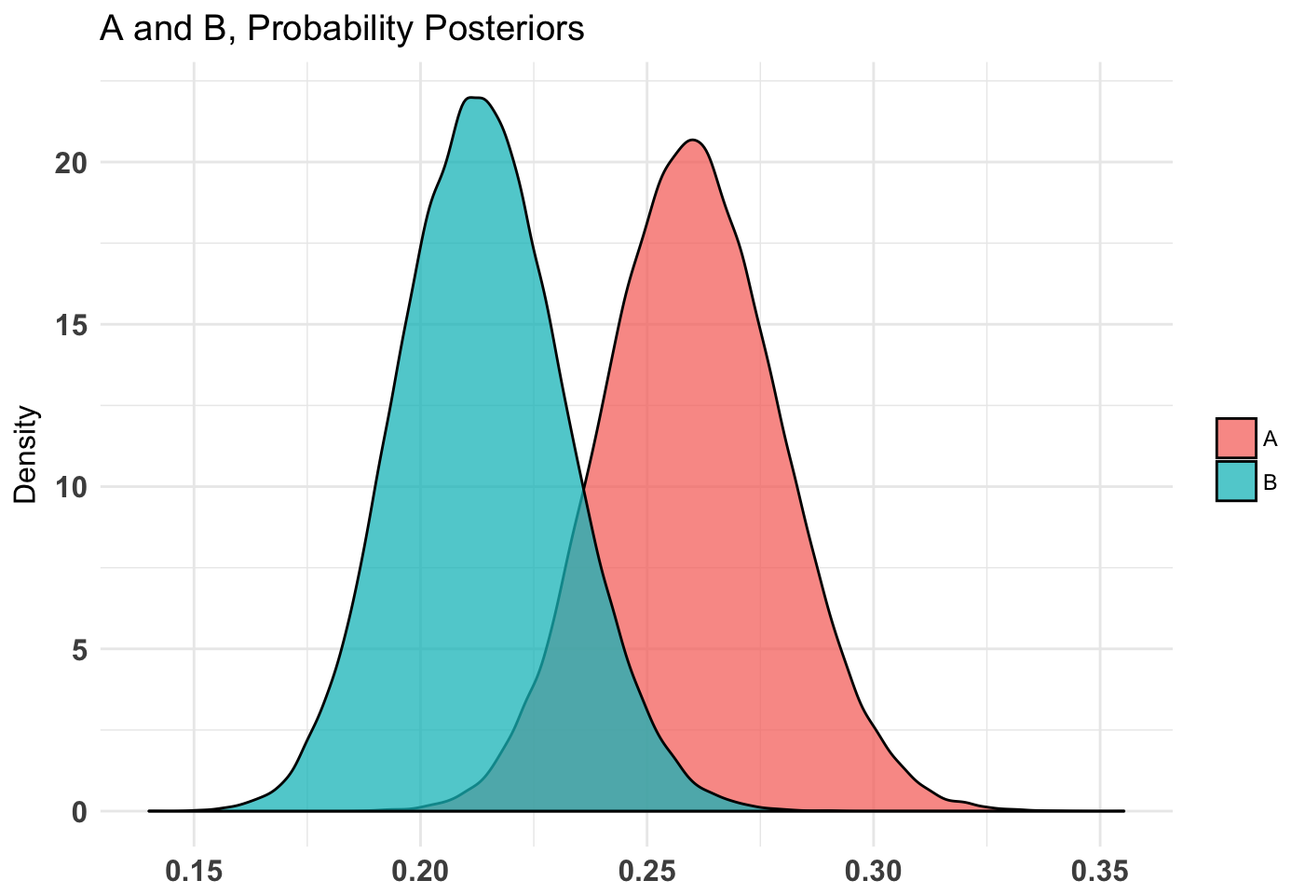
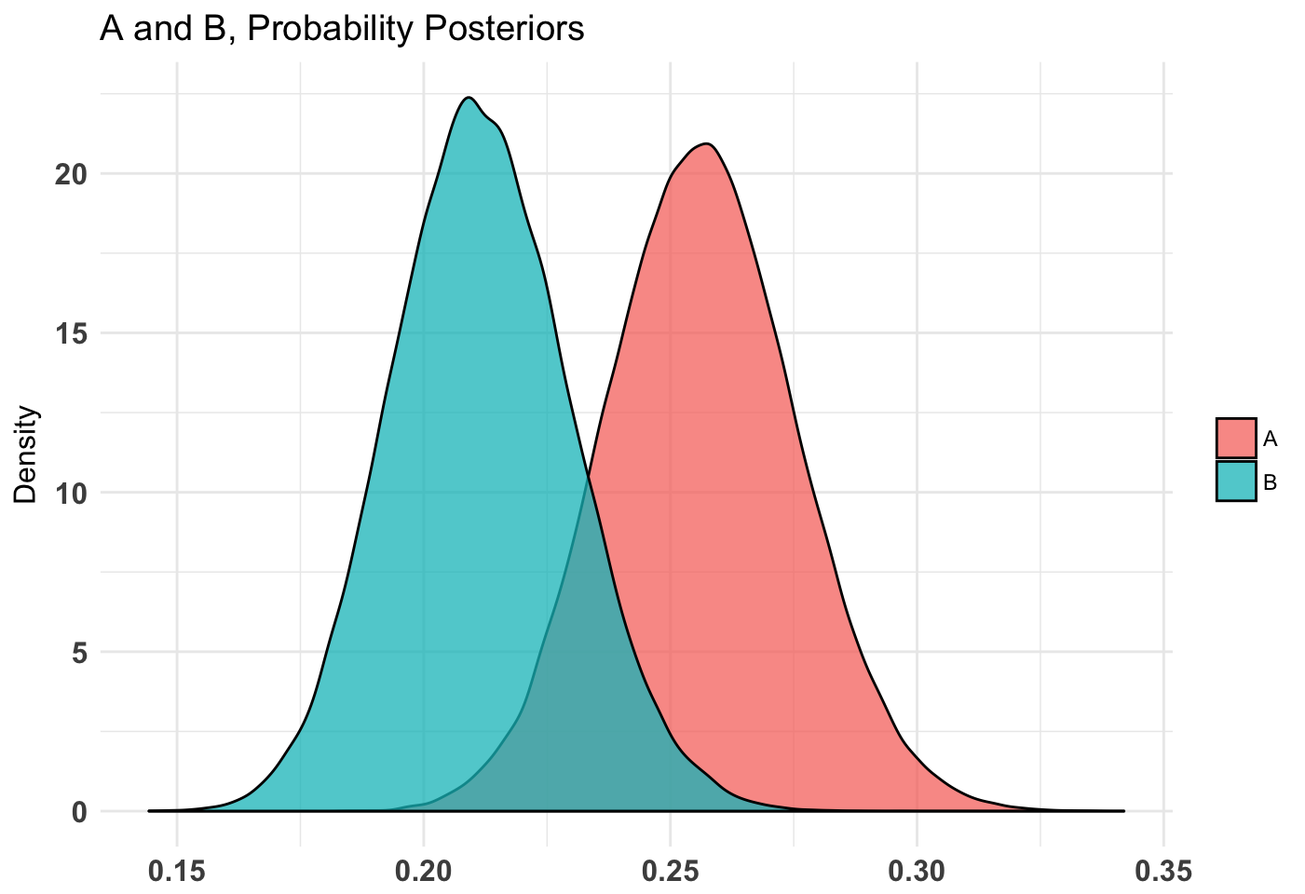
Add docs

diff --git a/docs/articles/introduction.html b/docs/articles/introduction.html
@@ -120,13 +120,13 @@ B_binom &lt;-<span class="st"> </span><span class="kw">rbinom</span>(<span class
 ## Distribution used: bernoulli 
 ## --------------------------------------------
 ## Using data with the following properties: 
-##          [,1] [,2]
-## Min.    0.000 0.00
-## 1st Qu. 0.000 0.00
-## Median  0.000 0.00
-## Mean    0.276 0.18
-## 3rd Qu. 1.000 0.00
-## Max.    1.000 1.00
+##          [,1]  [,2]
+## Min.    0.000 0.000
+## 1st Qu. 0.000 0.000
+## Median  0.000 0.000
+## Mean    0.268 0.176
+## 3rd Qu. 1.000 0.000
+## Max.    1.000 1.000
 ## --------------------------------------------
 ## Priors used for the calculation: 
 ## alpha  beta 
@@ -143,11 +143,11 @@ B_binom &lt;-<span class="st"> </span><span class="kw">rbinom</span>(<span class
 ## $Probability
 ## $Probability$A
 ##        0%       25%       50%       75%      100% 
-## 0.1860862 0.2468476 0.2598259 0.2730368 0.3552626 
+## 0.1759243 0.2433209 0.2561512 0.2690570 0.3419454 
 ## 
 ## $Probability$B
 ##        0%       25%       50%       75%      100% 
-## 0.1400662 0.2011467 0.2132506 0.2256707 0.2933081 
+## 0.1443084 0.1993754 0.2112741 0.2236812 0.2968028 
 ## 
 ## 
 ## --------------------------------------------
@@ -155,22 +155,22 @@ B_binom &lt;-<span class="st"> </span><span class="kw">rbinom</span>(<span class
 ## P(A &gt; B) by (0)%: 
 ## 
 ## $Probability
-## [1] 0.96047
+## [1] 0.95446
 ## 
 ## --------------------------------------------
 ## 
 ## Credible Interval on (A - B) / B for interval length(s) (0.9) : 
 ## 
 ## $Probability
-##         5%        95% 
-## 0.01229544 0.47011669 
+##          5%         95% 
+## 0.005283055 0.460445321 
 ## 
 ## --------------------------------------------
 ## 
 ## Posterior Expected Loss for choosing B over A:
 ## 
 ## $Probability
-## [1] 0.009585366</code></pre>
+## [1] 0.01089767</code></pre>
 <div class="sourceCode"><pre class="sourceCode r"><code class="sourceCode r"><span class="kw">plot</span>(AB1)</code></pre></div>
 <p><img src="introduction_files/figure-html/unnamed-chunk-4-1.png" width="700.8"><img src="introduction_files/figure-html/unnamed-chunk-4-2.png" width="700.8"><img src="introduction_files/figure-html/unnamed-chunk-4-3.png" width="700.8"></p>
 <p><code>print</code> talks about the inputs to the test, <code>summary</code> will do a P((A - B) / B &gt; percentLift) and credible interval on (A - B) / B calculation, and <code>plot</code> will plot the priors, posteriors, and the Monte Carlo ‘integrated’ samples.</p>
@@ -193,12 +193,12 @@ B_pois &lt;-<span class="st"> </span><span class="kw">rpois</span>(<span class="
 ## --------------------------------------------
 ## Using data with the following properties: 
 ##           [,1]   [,2]
-## Min.     1.000  0.000
+## Min.     0.000  1.000
 ## 1st Qu.  5.000  4.000
 ## Median   6.000  5.000
-## Mean     6.324  5.424
+## Mean     6.464  5.376
 ## 3rd Qu.  8.000  7.000
-## Max.    14.000 12.000
+## Max.    13.000 13.000
 ## --------------------------------------------
 ## Priors used for the calculation: 
 ## shape  rate 
@@ -215,11 +215,11 @@ B_pois &lt;-<span class="st"> </span><span class="kw">rpois</span>(<span class="
 ## $Lambda
 ## $Lambda$A
 ##       0%      25%      50%      75%     100% 
-## 5.645646 6.210770 6.316034 6.422977 6.959364 
+## 5.850969 6.347119 6.454225 6.562473 7.132264 
 ## 
 ## $Lambda$B
 ##       0%      25%      50%      75%     100% 
-## 4.734986 5.335825 5.433541 5.532063 6.088323 
+## 4.726443 5.289438 5.387400 5.485548 6.050513 
 ## 
 ## 
 ## --------------------------------------------
@@ -227,7 +227,7 @@ B_pois &lt;-<span class="st"> </span><span class="kw">rpois</span>(<span class="
 ## P(A &gt; B) by (0)%: 
 ## 
 ## $Lambda
-## [1] 0.99999
+## [1] 1
 ## 
 ## --------------------------------------------
 ## 
@@ -235,14 +235,14 @@ B_pois &lt;-<span class="st"> </span><span class="kw">rpois</span>(<span class="
 ## 
 ## $Lambda
 ##        5%       95% 
-## 0.0950021 0.2343721 
+## 0.1281615 0.2726665 
 ## 
 ## --------------------------------------------
 ## 
 ## Posterior Expected Loss for choosing B over A:
 ## 
 ## $Lambda
-## [1] 5.7507e-05</code></pre>
+## [1] 0</code></pre>
 <div class="sourceCode"><pre class="sourceCode r"><code class="sourceCode r"><span class="kw">plot</span>(AB2)</code></pre></div>
 <p><img src="introduction_files/figure-html/unnamed-chunk-6-1.png" width="700.8"><img src="introduction_files/figure-html/unnamed-chunk-6-2.png" width="700.8"><img src="introduction_files/figure-html/unnamed-chunk-6-3.png" width="700.8"></p>
 </div>
@@ -264,13 +264,13 @@ AB3 &lt;-<span class="st"> </span>AB1 <span class="op">%&gt;%</span>
 ## Distribution used: combined 
 ## --------------------------------------------
 ## Using data with the following properties: 
-##          [,1]   [,2] [,3]   [,4]
-## Min.    0.000  1.000 0.00  0.000
-## 1st Qu. 0.000  5.000 0.00  4.000
-## Median  0.000  6.000 0.00  5.000
-## Mean    0.276  6.324 0.18  5.424
-## 3rd Qu. 1.000  8.000 0.00  7.000
-## Max.    1.000 14.000 1.00 12.000
+##          [,1]   [,2]  [,3]   [,4]
+## Min.    0.000  0.000 0.000  1.000
+## 1st Qu. 0.000  5.000 0.000  4.000
+## Median  0.000  6.000 0.000  5.000
+## Mean    0.268  6.464 0.176  5.376
+## 3rd Qu. 1.000  8.000 0.000  7.000
+## Max.    1.000 13.000 1.000 13.000
 ## --------------------------------------------
 ## Priors used for the calculation: 
 ## [1] "Combined distributions have no priors. Inspect each element separately for details."
@@ -286,11 +286,11 @@ AB3 &lt;-<span class="st"> </span>AB1 <span class="op">%&gt;%</span>
 ## $Expectation
 ## $Expectation$A
 ##       0%      25%      50%      75%     100% 
-## 1.167365 1.554811 1.640343 1.729050 2.209472 
+## 1.163978 1.565930 1.652580 1.740670 2.258558 
 ## 
 ## $Expectation$B
 ##        0%       25%       50%       75%      100% 
-## 0.7458662 1.0899740 1.1583631 1.2290363 1.6722446 
+## 0.7660404 1.0710710 1.1379814 1.2077645 1.6759741 
 ## 
 ## 
 ## --------------------------------------------
@@ -298,7 +298,7 @@ AB3 &lt;-<span class="st"> </span>AB1 <span class="op">%&gt;%</span>
 ## P(A &gt; B) by (0)%: 
 ## 
 ## $Expectation
-## [1] 0.99834
+## [1] 0.99913
 ## 
 ## --------------------------------------------
 ## 
@@ -306,14 +306,14 @@ AB3 &lt;-<span class="st"> </span>AB1 <span class="op">%&gt;%</span>
 ## 
 ## $Expectation
 ##        5%       95% 
-## 0.1662272 0.7234421 
+## 0.1940819 0.7675460 
 ## 
 ## --------------------------------------------
 ## 
 ## Posterior Expected Loss for choosing B over A:
 ## 
 ## $Expectation
-## [1] 0.002331403</code></pre>
+## [1] 0.001205662</code></pre>
 <div class="sourceCode"><pre class="sourceCode r"><code class="sourceCode r"><span class="kw">plot</span>(AB3)</code></pre></div>
 <p><img src="introduction_files/figure-html/unnamed-chunk-8-1.png" width="700.8"><img src="introduction_files/figure-html/unnamed-chunk-8-2.png" width="700.8"></p>
 </div>

diff --git a/docs/reference/plot.bayesTest.html b/docs/reference/plot.bayesTest.html
@@ -149,10 +149,10 @@ modify it accordingly.</p>
 
 <span class='no'>AB1</span> <span class='kw'>&lt;-</span> <span class='fu'><a href='bayesTest.html'>bayesTest</a></span>(<span class='no'>A_pois</span>, <span class='no'>B_pois</span>, <span class='kw'>priors</span> <span class='kw'>=</span> <span class='fu'>c</span>(<span class='st'>'shape'</span> <span class='kw'>=</span> <span class='fl'>25</span>, <span class='st'>'rate'</span> <span class='kw'>=</span> <span class='fl'>5</span>), <span class='kw'>distribution</span> <span class='kw'>=</span> <span class='st'>'poisson'</span>)
 
-<span class='fu'>plot</span>(<span class='no'>AB1</span>)</div><div class='img'><img src='plot.bayesTest-1.png' alt='' width='700' height='432.632880098887' /></div><div class='img'><img src='plot.bayesTest-2.png' alt='' width='700' height='432.632880098887' /></div><div class='img'><img src='plot.bayesTest-3.png' alt='' width='700' height='432.632880098887' /></div><div class='input'><span class='fu'>plot</span>(<span class='no'>AB1</span>, <span class='kw'>area</span> <span class='kw'>=</span> <span class='fl'>.95</span>)</div><div class='img'><img src='plot.bayesTest-4.png' alt='' width='700' height='432.632880098887' /></div><div class='img'><img src='plot.bayesTest-5.png' alt='' width='700' height='432.632880098887' /></div><div class='img'><img src='plot.bayesTest-6.png' alt='' width='700' height='432.632880098887' /></div><div class='input'><span class='fu'>plot</span>(<span class='no'>AB1</span>, <span class='kw'>percentLift</span> <span class='kw'>=</span> <span class='fl'>5</span>)</div><div class='img'><img src='plot.bayesTest-7.png' alt='' width='700' height='432.632880098887' /></div><div class='img'><img src='plot.bayesTest-8.png' alt='' width='700' height='432.632880098887' /></div><div class='img'><img src='plot.bayesTest-9.png' alt='' width='700' height='432.632880098887' /></div><div class='input'>
+<span class='fu'>plot</span>(<span class='no'>AB1</span>)</div><div class='img'><img src='plot.bayesTest-14.png' alt='' width='700' height='432.632880098887' /></div><div class='img'><img src='plot.bayesTest-15.png' alt='' width='700' height='432.632880098887' /></div><div class='img'><img src='plot.bayesTest-16.png' alt='' width='700' height='432.632880098887' /></div><div class='input'><span class='fu'>plot</span>(<span class='no'>AB1</span>, <span class='kw'>area</span> <span class='kw'>=</span> <span class='fl'>.95</span>)</div><div class='img'><img src='plot.bayesTest-17.png' alt='' width='700' height='432.632880098887' /></div><div class='img'><img src='plot.bayesTest-18.png' alt='' width='700' height='432.632880098887' /></div><div class='img'><img src='plot.bayesTest-19.png' alt='' width='700' height='432.632880098887' /></div><div class='input'><span class='fu'>plot</span>(<span class='no'>AB1</span>, <span class='kw'>percentLift</span> <span class='kw'>=</span> <span class='fl'>5</span>)</div><div class='img'><img src='plot.bayesTest-20.png' alt='' width='700' height='432.632880098887' /></div><div class='img'><img src='plot.bayesTest-21.png' alt='' width='700' height='432.632880098887' /></div><div class='img'><img src='plot.bayesTest-22.png' alt='' width='700' height='432.632880098887' /></div><div class='input'>
 <span class='no'>p</span> <span class='kw'>&lt;-</span> <span class='fu'>plot</span>(<span class='no'>AB1</span>)
 
-<span class='no'>p</span></div><div class='img'><img src='plot.bayesTest-10.png' alt='' width='700' height='432.632880098887' /></div><div class='img'><img src='plot.bayesTest-11.png' alt='' width='700' height='432.632880098887' /></div><div class='img'><img src='plot.bayesTest-12.png' alt='' width='700' height='432.632880098887' /></div><div class='input'><span class='no'>p</span>$<span class='no'>posteriors</span>$<span class='no'>Lambda</span></div><div class='img'><img src='plot.bayesTest-13.png' alt='' width='700' height='432.632880098887' /></div><span class='co'># NOT RUN {</span>
+<span class='no'>p</span></div><div class='img'><img src='plot.bayesTest-23.png' alt='' width='700' height='432.632880098887' /></div><div class='img'><img src='plot.bayesTest-24.png' alt='' width='700' height='432.632880098887' /></div><div class='img'><img src='plot.bayesTest-25.png' alt='' width='700' height='432.632880098887' /></div><div class='input'><span class='no'>p</span>$<span class='no'>posteriors</span>$<span class='no'>Lambda</span></div><div class='img'><img src='plot.bayesTest-26.png' alt='' width='700' height='432.632880098887' /></div><span class='co'># NOT RUN {</span>
 <span class='no'>p</span>$<span class='no'>posteriors</span>$<span class='no'>Lambda</span> + <span class='fu'>ggtitle</span>(<span class='st'>'yolo'</span>) <span class='co'># modify ggplot2 object directly</span>
 <span class='co'># }</span><div class='input'>
 </div></pre>

diff --git a/docs/reference/bayesTest.html b/docs/reference/bayesTest.html
@@ -272,7 +272,7 @@ approach infinity. See <a href='plot.bayesTest.html'>plot.bayesTest</a> for how 
 #&gt; 
 #&gt; $Probability
 #&gt; [1] 0.5199316
-#&gt; </div><div class='input'><span class='fu'>plot</span>(<span class='no'>AB1</span>)</div><div class='img'><img src='bayesTest-1.png' alt='' width='700' height='432.632880098887' /></div><div class='img'><img src='bayesTest-2.png' alt='' width='700' height='432.632880098887' /></div><div class='img'><img src='bayesTest-3.png' alt='' width='700' height='432.632880098887' /></div><div class='input'>
+#&gt; </div><div class='input'><span class='fu'>plot</span>(<span class='no'>AB1</span>)</div><div class='img'><img src='bayesTest-12.png' alt='' width='700' height='432.632880098887' /></div><div class='img'><img src='bayesTest-13.png' alt='' width='700' height='432.632880098887' /></div><div class='img'><img src='bayesTest-14.png' alt='' width='700' height='432.632880098887' /></div><div class='input'>
 <span class='fu'>print</span>(<span class='no'>AB2</span>)</div><div class='output co'>#&gt; --------------------------------------------
 #&gt; Distribution used: normal 
 #&gt; --------------------------------------------
@@ -346,7 +346,7 @@ approach infinity. See <a href='plot.bayesTest.html'>plot.bayesTest</a> for how 
 #&gt; 
 #&gt; $Sig_Sq
 #&gt; [1] 6.01607
-#&gt; </div><div class='input'><span class='fu'>plot</span>(<span class='no'>AB2</span>)</div><div class='img'><img src='bayesTest-4.png' alt='' width='700' height='432.632880098887' /></div><div class='img'><img src='bayesTest-5.png' alt='' width='700' height='432.632880098887' /></div><div class='img'><img src='bayesTest-6.png' alt='' width='700' height='432.632880098887' /></div><div class='img'><img src='bayesTest-7.png' alt='' width='700' height='432.632880098887' /></div><div class='img'><img src='bayesTest-8.png' alt='' width='700' height='432.632880098887' /></div><div class='img'><img src='bayesTest-9.png' alt='' width='700' height='432.632880098887' /></div><div class='input'>
+#&gt; </div><div class='input'><span class='fu'>plot</span>(<span class='no'>AB2</span>)</div><div class='img'><img src='bayesTest-15.png' alt='' width='700' height='432.632880098887' /></div><div class='img'><img src='bayesTest-16.png' alt='' width='700' height='432.632880098887' /></div><div class='img'><img src='bayesTest-17.png' alt='' width='700' height='432.632880098887' /></div><div class='img'><img src='bayesTest-18.png' alt='' width='700' height='432.632880098887' /></div><div class='img'><img src='bayesTest-19.png' alt='' width='700' height='432.632880098887' /></div><div class='img'><img src='bayesTest-20.png' alt='' width='700' height='432.632880098887' /></div><div class='input'>
 <span class='co'># Create a new variable that is the probability multiiplied</span>
 <span class='co'># by the normally distributed variable (expected value of something)</span>
 <span class='no'>AB3</span> <span class='kw'>&lt;-</span> <span class='fu'><a href='combine.html'>combine</a></span>(<span class='no'>AB1</span>, <span class='no'>AB2</span>, <span class='kw'>f</span> <span class='kw'>=</span> <span class='no'>`*`</span>, <span class='kw'>params</span> <span class='kw'>=</span> <span class='fu'>c</span>(<span class='st'>'Probability'</span>, <span class='st'>'Mu'</span>), <span class='kw'>newName</span> <span class='kw'>=</span> <span class='st'>'Expectation'</span>)
@@ -403,7 +403,7 @@ approach infinity. See <a href='plot.bayesTest.html'>plot.bayesTest</a> for how 
 #&gt; 
 #&gt; $Expectation
 #&gt; [1] 0.9577309
-#&gt; </div><div class='input'><span class='fu'>plot</span>(<span class='no'>AB3</span>)</div><div class='img'><img src='bayesTest-10.png' alt='' width='700' height='432.632880098887' /></div><div class='img'><img src='bayesTest-11.png' alt='' width='700' height='432.632880098887' /></div><div class='input'>
+#&gt; </div><div class='input'><span class='fu'>plot</span>(<span class='no'>AB3</span>)</div><div class='img'><img src='bayesTest-21.png' alt='' width='700' height='432.632880098887' /></div><div class='img'><img src='bayesTest-22.png' alt='' width='700' height='432.632880098887' /></div><div class='input'>
 </div></pre>
   </div>
   <div class="col-md-3 hidden-xs hidden-sm" id="sidebar">

diff --git a/docs/reference/plotLogNormal.html b/docs/reference/plotLogNormal.html
@@ -132,8 +132,8 @@
 
     <h2 class="hasAnchor" id="examples"><a class="anchor" href="#examples"></a>Examples</h2>
     <pre class="examples"><div class='input'><span class='fu'>plotLogNormal</span>(<span class='fl'>1</span>, <span class='fl'>1</span>)</div><div class='output co'>#&gt; <span class='message'>geom_path: Each group consists of only one observation. Do you need to adjust</span>
-#&gt; <span class='message'>the group aesthetic?</span></div><div class='img'><img src='plotLogNormal-1.png' alt='' width='700' height='432.632880098887' /></div><div class='input'><span class='fu'>plotLogNormal</span>(<span class='fl'>2</span>, <span class='fl'>5</span>)</div><div class='output co'>#&gt; <span class='message'>geom_path: Each group consists of only one observation. Do you need to adjust</span>
-#&gt; <span class='message'>the group aesthetic?</span></div><div class='img'><img src='plotLogNormal-2.png' alt='' width='700' height='432.632880098887' /></div><span class='co'># NOT RUN {</span>
+#&gt; <span class='message'>the group aesthetic?</span></div><div class='img'><img src='plotLogNormal-3.png' alt='' width='700' height='432.632880098887' /></div><div class='input'><span class='fu'>plotLogNormal</span>(<span class='fl'>2</span>, <span class='fl'>5</span>)</div><div class='output co'>#&gt; <span class='message'>geom_path: Each group consists of only one observation. Do you need to adjust</span>
+#&gt; <span class='message'>the group aesthetic?</span></div><div class='img'><img src='plotLogNormal-4.png' alt='' width='700' height='432.632880098887' /></div><span class='co'># NOT RUN {</span>
 <span class='fu'>plotLogNormal</span>(<span class='fl'>2</span>, <span class='fl'>5</span>) + <span class='fu'>ggtitle</span>(<span class='st'>'I hate the default title!'</span>)
 <span class='co'># }</span></pre>
   </div>

diff --git a/docs/reference/banditize.html b/docs/reference/banditize.html
@@ -155,7 +155,7 @@ re-assign the variable.</p>
 #&gt;     
 #&gt;     return(choices[compareFun(c(A_sample, B_sample))])
 #&gt;   }
-#&gt; &lt;environment: 0x108c56e00&gt;</div><div class='input'><span class='no'>binomialBandit</span>$<span class='fu'>setResults</span>(<span class='fu'>list</span>(<span class='st'>'A'</span> <span class='kw'>=</span> <span class='fu'>c</span>(<span class='fl'>1</span>, <span class='fl'>0</span>, <span class='fl'>1</span>, <span class='fl'>0</span>, <span class='fl'>0</span>), <span class='st'>'B'</span> <span class='kw'>=</span> <span class='fu'>c</span>(<span class='fl'>0</span>, <span class='fl'>0</span>, <span class='fl'>0</span>, <span class='fl'>0</span>, <span class='fl'>1</span>)))</div><div class='output co'>#&gt; [1] 0</div><div class='input'>
+#&gt; &lt;environment: 0x1179aedb8&gt;</div><div class='input'><span class='no'>binomialBandit</span>$<span class='fu'>setResults</span>(<span class='fu'>list</span>(<span class='st'>'A'</span> <span class='kw'>=</span> <span class='fu'>c</span>(<span class='fl'>1</span>, <span class='fl'>0</span>, <span class='fl'>1</span>, <span class='fl'>0</span>, <span class='fl'>0</span>), <span class='st'>'B'</span> <span class='kw'>=</span> <span class='fu'>c</span>(<span class='fl'>0</span>, <span class='fl'>0</span>, <span class='fl'>0</span>, <span class='fl'>0</span>, <span class='fl'>1</span>)))</div><div class='output co'>#&gt; [1] 0</div><div class='input'>
 </div></pre>
   </div>
   <div class="col-md-3 hidden-xs hidden-sm" id="sidebar">

diff --git a/docs/reference/plotInvGamma.html b/docs/reference/plotInvGamma.html
@@ -131,7 +131,7 @@
     
 
     <h2 class="hasAnchor" id="examples"><a class="anchor" href="#examples"></a>Examples</h2>
-    <pre class="examples"><div class='input'><span class='fu'>plotInvGamma</span>(<span class='fl'>2</span>, <span class='fl'>4</span>)</div><div class='img'><img src='plotInvGamma-1.png' alt='' width='700' height='432.632880098887' /></div><div class='input'><span class='fu'>plotInvGamma</span>(<span class='fl'>1</span>, <span class='fl'>17</span>)</div><div class='img'><img src='plotInvGamma-2.png' alt='' width='700' height='432.632880098887' /></div><span class='co'># NOT RUN {</span>
+    <pre class="examples"><div class='input'><span class='fu'>plotInvGamma</span>(<span class='fl'>2</span>, <span class='fl'>4</span>)</div><div class='img'><img src='plotInvGamma-3.png' alt='' width='700' height='432.632880098887' /></div><div class='input'><span class='fu'>plotInvGamma</span>(<span class='fl'>1</span>, <span class='fl'>17</span>)</div><div class='img'><img src='plotInvGamma-4.png' alt='' width='700' height='432.632880098887' /></div><span class='co'># NOT RUN {</span>
 <span class='fu'>plotInvGamma</span>(<span class='fl'>1</span>, <span class='fl'>17</span>) + <span class='fu'>ggtitle</span>(<span class='st'>'I hate the default title!'</span>)
 <span class='co'># }</span></pre>
   </div>

diff --git a/docs/reference/plotNormal.html b/docs/reference/plotNormal.html
@@ -127,7 +127,7 @@
     
 
     <h2 class="hasAnchor" id="examples"><a class="anchor" href="#examples"></a>Examples</h2>
-    <pre class="examples"><div class='input'><span class='fu'>plotNormal</span>(<span class='fl'>1</span>, <span class='fl'>1</span>)</div><div class='img'><img src='plotNormal-1.png' alt='' width='700' height='432.632880098887' /></div><div class='input'><span class='fu'>plotNormal</span>(<span class='fl'>2</span>, <span class='fl'>5</span>)</div><div class='img'><img src='plotNormal-2.png' alt='' width='700' height='432.632880098887' /></div><span class='co'># NOT RUN {</span>
+    <pre class="examples"><div class='input'><span class='fu'>plotNormal</span>(<span class='fl'>1</span>, <span class='fl'>1</span>)</div><div class='img'><img src='plotNormal-3.png' alt='' width='700' height='432.632880098887' /></div><div class='input'><span class='fu'>plotNormal</span>(<span class='fl'>2</span>, <span class='fl'>5</span>)</div><div class='img'><img src='plotNormal-4.png' alt='' width='700' height='432.632880098887' /></div><span class='co'># NOT RUN {</span>
 <span class='fu'>plotNormal</span>(<span class='fl'>2</span>, <span class='fl'>5</span>) + <span class='fu'>ggtitle</span>(<span class='st'>'I hate the default title!'</span>)
 <span class='co'># }</span></pre>
   </div>

diff --git a/docs/reference/plotPareto.html b/docs/reference/plotPareto.html
@@ -131,7 +131,7 @@
     
 
     <h2 class="hasAnchor" id="examples"><a class="anchor" href="#examples"></a>Examples</h2>
-    <pre class="examples"><div class='input'><span class='fu'>plotPareto</span>(<span class='fl'>1</span>, <span class='fl'>1</span>)</div><div class='img'><img src='plotPareto-1.png' alt='' width='700' height='432.632880098887' /></div><div class='input'><span class='fu'>plotPareto</span>(<span class='fl'>5</span>, <span class='fl'>3</span>)</div><div class='img'><img src='plotPareto-2.png' alt='' width='700' height='432.632880098887' /></div><span class='co'># NOT RUN {</span>
+    <pre class="examples"><div class='input'><span class='fu'>plotPareto</span>(<span class='fl'>1</span>, <span class='fl'>1</span>)</div><div class='img'><img src='plotPareto-3.png' alt='' width='700' height='432.632880098887' /></div><div class='input'><span class='fu'>plotPareto</span>(<span class='fl'>5</span>, <span class='fl'>3</span>)</div><div class='img'><img src='plotPareto-4.png' alt='' width='700' height='432.632880098887' /></div><span class='co'># NOT RUN {</span>
 <span class='fu'>plotPareto</span>(<span class='fl'>5</span>, <span class='fl'>3</span>) + <span class='fu'>ggtitle</span>(<span class='st'>'I hate the default title!'</span>)
 <span class='co'># }</span></pre>
   </div>

diff --git a/docs/reference/plotGamma.html b/docs/reference/plotGamma.html
@@ -135,7 +135,7 @@
     
 
     <h2 class="hasAnchor" id="examples"><a class="anchor" href="#examples"></a>Examples</h2>
-    <pre class="examples"><div class='input'><span class='fu'>plotGamma</span>(<span class='fl'>1</span>, <span class='fl'>1</span>)</div><div class='img'><img src='plotGamma-1.png' alt='' width='700' height='432.632880098887' /></div><div class='input'><span class='fu'>plotGamma</span>(<span class='fl'>2</span>, <span class='fl'>5</span>)</div><div class='img'><img src='plotGamma-2.png' alt='' width='700' height='432.632880098887' /></div><span class='co'># NOT RUN {</span>
+    <pre class="examples"><div class='input'><span class='fu'>plotGamma</span>(<span class='fl'>1</span>, <span class='fl'>1</span>)</div><div class='img'><img src='plotGamma-3.png' alt='' width='700' height='432.632880098887' /></div><div class='input'><span class='fu'>plotGamma</span>(<span class='fl'>2</span>, <span class='fl'>5</span>)</div><div class='img'><img src='plotGamma-4.png' alt='' width='700' height='432.632880098887' /></div><span class='co'># NOT RUN {</span>
 <span class='fu'>plotGamma</span>(<span class='fl'>2</span>, <span class='fl'>5</span>) + <span class='fu'>ggtitle</span>(<span class='st'>'I hate the default title!'</span>)
 <span class='co'># }</span></pre>
   </div>

diff --git a/docs/reference/plotBeta.html b/docs/reference/plotBeta.html
@@ -127,7 +127,7 @@
     
 
     <h2 class="hasAnchor" id="examples"><a class="anchor" href="#examples"></a>Examples</h2>
-    <pre class="examples"><div class='input'><span class='fu'>plotBeta</span>(<span class='fl'>1</span>, <span class='fl'>1</span>)</div><div class='img'><img src='plotBeta-1.png' alt='' width='700' height='432.632880098887' /></div><div class='input'><span class='fu'>plotBeta</span>(<span class='fl'>2</span>, <span class='fl'>5</span>)</div><div class='img'><img src='plotBeta-2.png' alt='' width='700' height='432.632880098887' /></div><span class='co'># NOT RUN {</span>
+    <pre class="examples"><div class='input'><span class='fu'>plotBeta</span>(<span class='fl'>1</span>, <span class='fl'>1</span>)</div><div class='img'><img src='plotBeta-3.png' alt='' width='700' height='432.632880098887' /></div><div class='input'><span class='fu'>plotBeta</span>(<span class='fl'>2</span>, <span class='fl'>5</span>)</div><div class='img'><img src='plotBeta-4.png' alt='' width='700' height='432.632880098887' /></div><span class='co'># NOT RUN {</span>
 <span class='fu'>plotBeta</span>(<span class='fl'>2</span>, <span class='fl'>5</span>) + <span class='fu'>ggtitle</span>(<span class='st'>'I hate the default title!'</span>)
 <span class='co'># }</span></pre>
   </div>

diff --git a/docs/reference/plotPoisson.html b/docs/reference/plotPoisson.html
@@ -127,7 +127,7 @@
     
 
     <h2 class="hasAnchor" id="examples"><a class="anchor" href="#examples"></a>Examples</h2>
-    <pre class="examples"><div class='input'><span class='fu'>plotPoisson</span>(<span class='fl'>1</span>)</div><div class='img'><img src='plotPoisson-1.png' alt='' width='700' height='432.632880098887' /></div><div class='input'><span class='fu'>plotPoisson</span>(<span class='fl'>5</span>)</div><div class='img'><img src='plotPoisson-2.png' alt='' width='700' height='432.632880098887' /></div><span class='co'># NOT RUN {</span>
+    <pre class="examples"><div class='input'><span class='fu'>plotPoisson</span>(<span class='fl'>1</span>)</div><div class='img'><img src='plotPoisson-3.png' alt='' width='700' height='432.632880098887' /></div><div class='input'><span class='fu'>plotPoisson</span>(<span class='fl'>5</span>)</div><div class='img'><img src='plotPoisson-4.png' alt='' width='700' height='432.632880098887' /></div><span class='co'># NOT RUN {</span>
 <span class='fu'>plotPoisson</span>(<span class='fl'>5</span>) + <span class='fu'>ggtitle</span>(<span class='st'>'I hate the default title!'</span>)
 <span class='co'># }</span></pre>
   </div>

diff --git a/docs/reference/combine.html b/docs/reference/combine.html
@@ -215,7 +215,7 @@ defaults to first posterior parameter if not supplied</p></td>
 #&gt; 
 #&gt; $Parameter
 #&gt; [1] 1.30212
-#&gt; </div><div class='input'><span class='fu'>plot</span>(<span class='no'>AB3</span>)</div><div class='img'><img src='combine-1.png' alt='' width='700' height='432.632880098887' /></div><div class='img'><img src='combine-2.png' alt='' width='700' height='432.632880098887' /></div></pre>
+#&gt; </div><div class='input'><span class='fu'>plot</span>(<span class='no'>AB3</span>)</div><div class='img'><img src='combine-3.png' alt='' width='700' height='432.632880098887' /></div><div class='img'><img src='combine-4.png' alt='' width='700' height='432.632880098887' /></div></pre>
   </div>
   <div class="col-md-3 hidden-xs hidden-sm" id="sidebar">
     <h2>Contents</h2>
